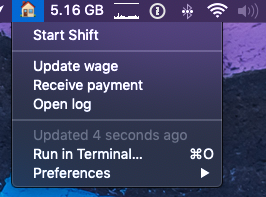
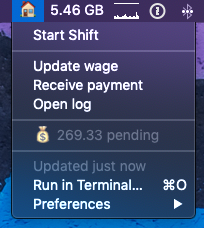
Only show update wage in bitbar when not in shift

diff --git a/hours.py b/hours.py
@@ -238,7 +238,8 @@ def bitbar(report: LogReport):
         print(f'Start Shift | refresh=true bash="{script_path()}" param1=-s terminal=false')
 
     print('---')
-    print(f'Update wage | refresh=true bash="{script_path()}" param1=-w terminal=true')
+    if not report.in_shift:
+        print(f'Update wage | refresh=true bash="{script_path()}" param1=-w terminal=true')
     print(f'Receive payment | refresh=true bash="{script_path()}" param1=-p terminal=true')
 
     print(f'Open log | refresh=true bash="less" param1={LOG_FILE_PATH} terminal=true')
